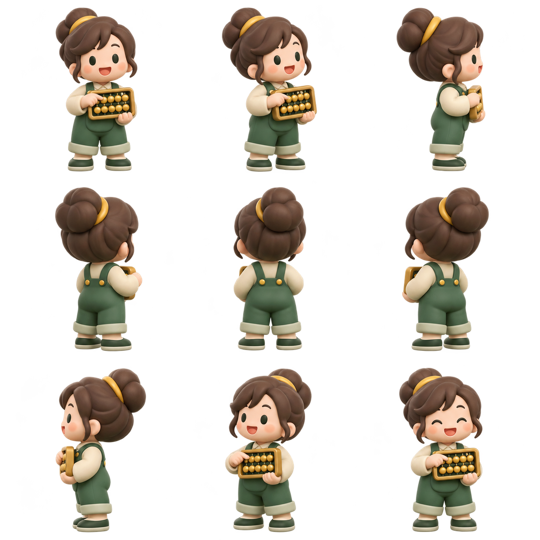
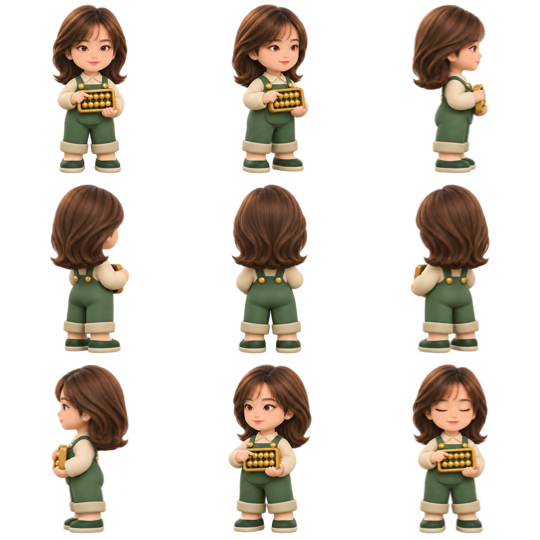
chore: 准备 1.8.1 Android 升级包 (#14)
替换 AI 小账房的八视角和眨眼素材，将 Android 升级序号提升到 15。

Changed region(s): [[0.7111, 0.0, 0.9185, 1.0], [0.0889, 0.0, 0.2667, 1.0], [0.4148, 0.0, 0.5926, 1.0]]

diff --git a/CHANGELOG.md b/CHANGELOG.md
@@ -2,6 +2,10 @@
 
 产品版本以 `android/app/build.gradle` 的 `versionName` 为准；安装升级使用 `versionCode`，数据库和备份格式独立编号。
 
+## 1.8.1 — 2026-11-11（versionCode 15）
+
+- 更新 AI 助手的立体小账房造型，换成带轻薄刘海的齐肩发，保留金边算盘、八个转身视角和眨眼动画。
+
 ## 1.8.0 — 2026-11-11（versionCode 14）
 
 - AI 助手入口移到右下角，明细和统计共用抱算盘的立体小账房。可直接拖动位置，也可长按后左右拖动切换八个视角。
